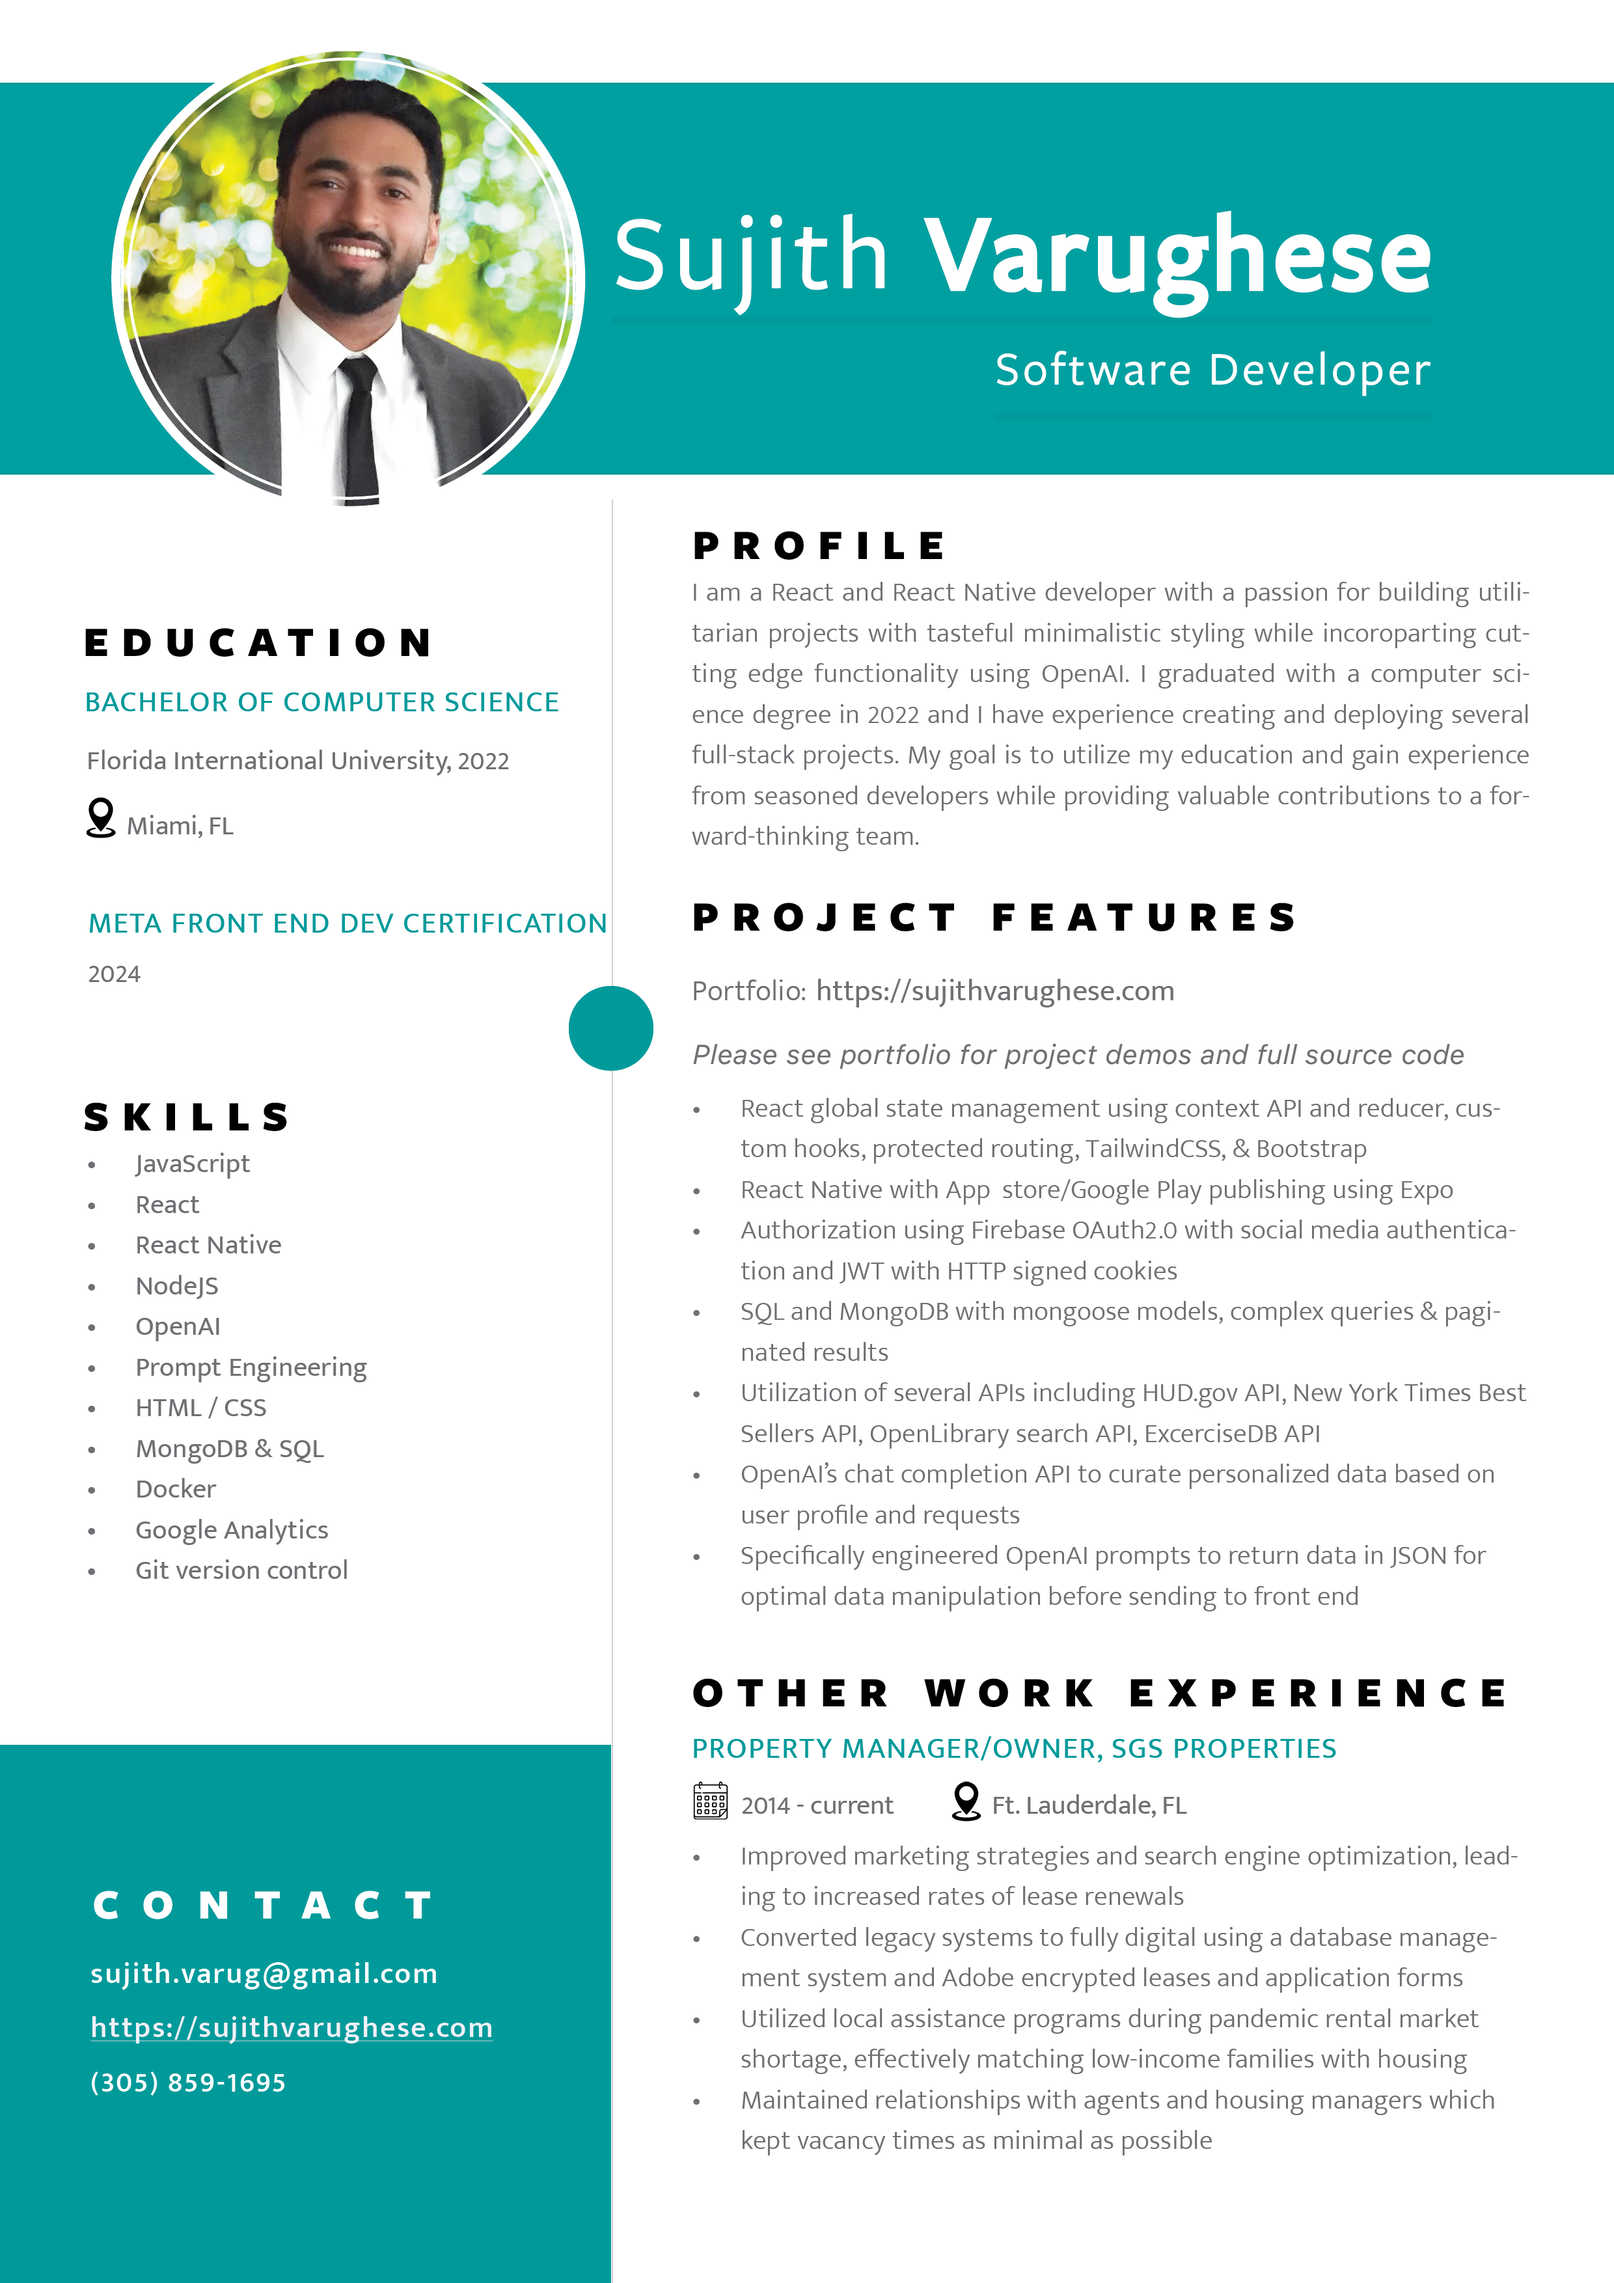
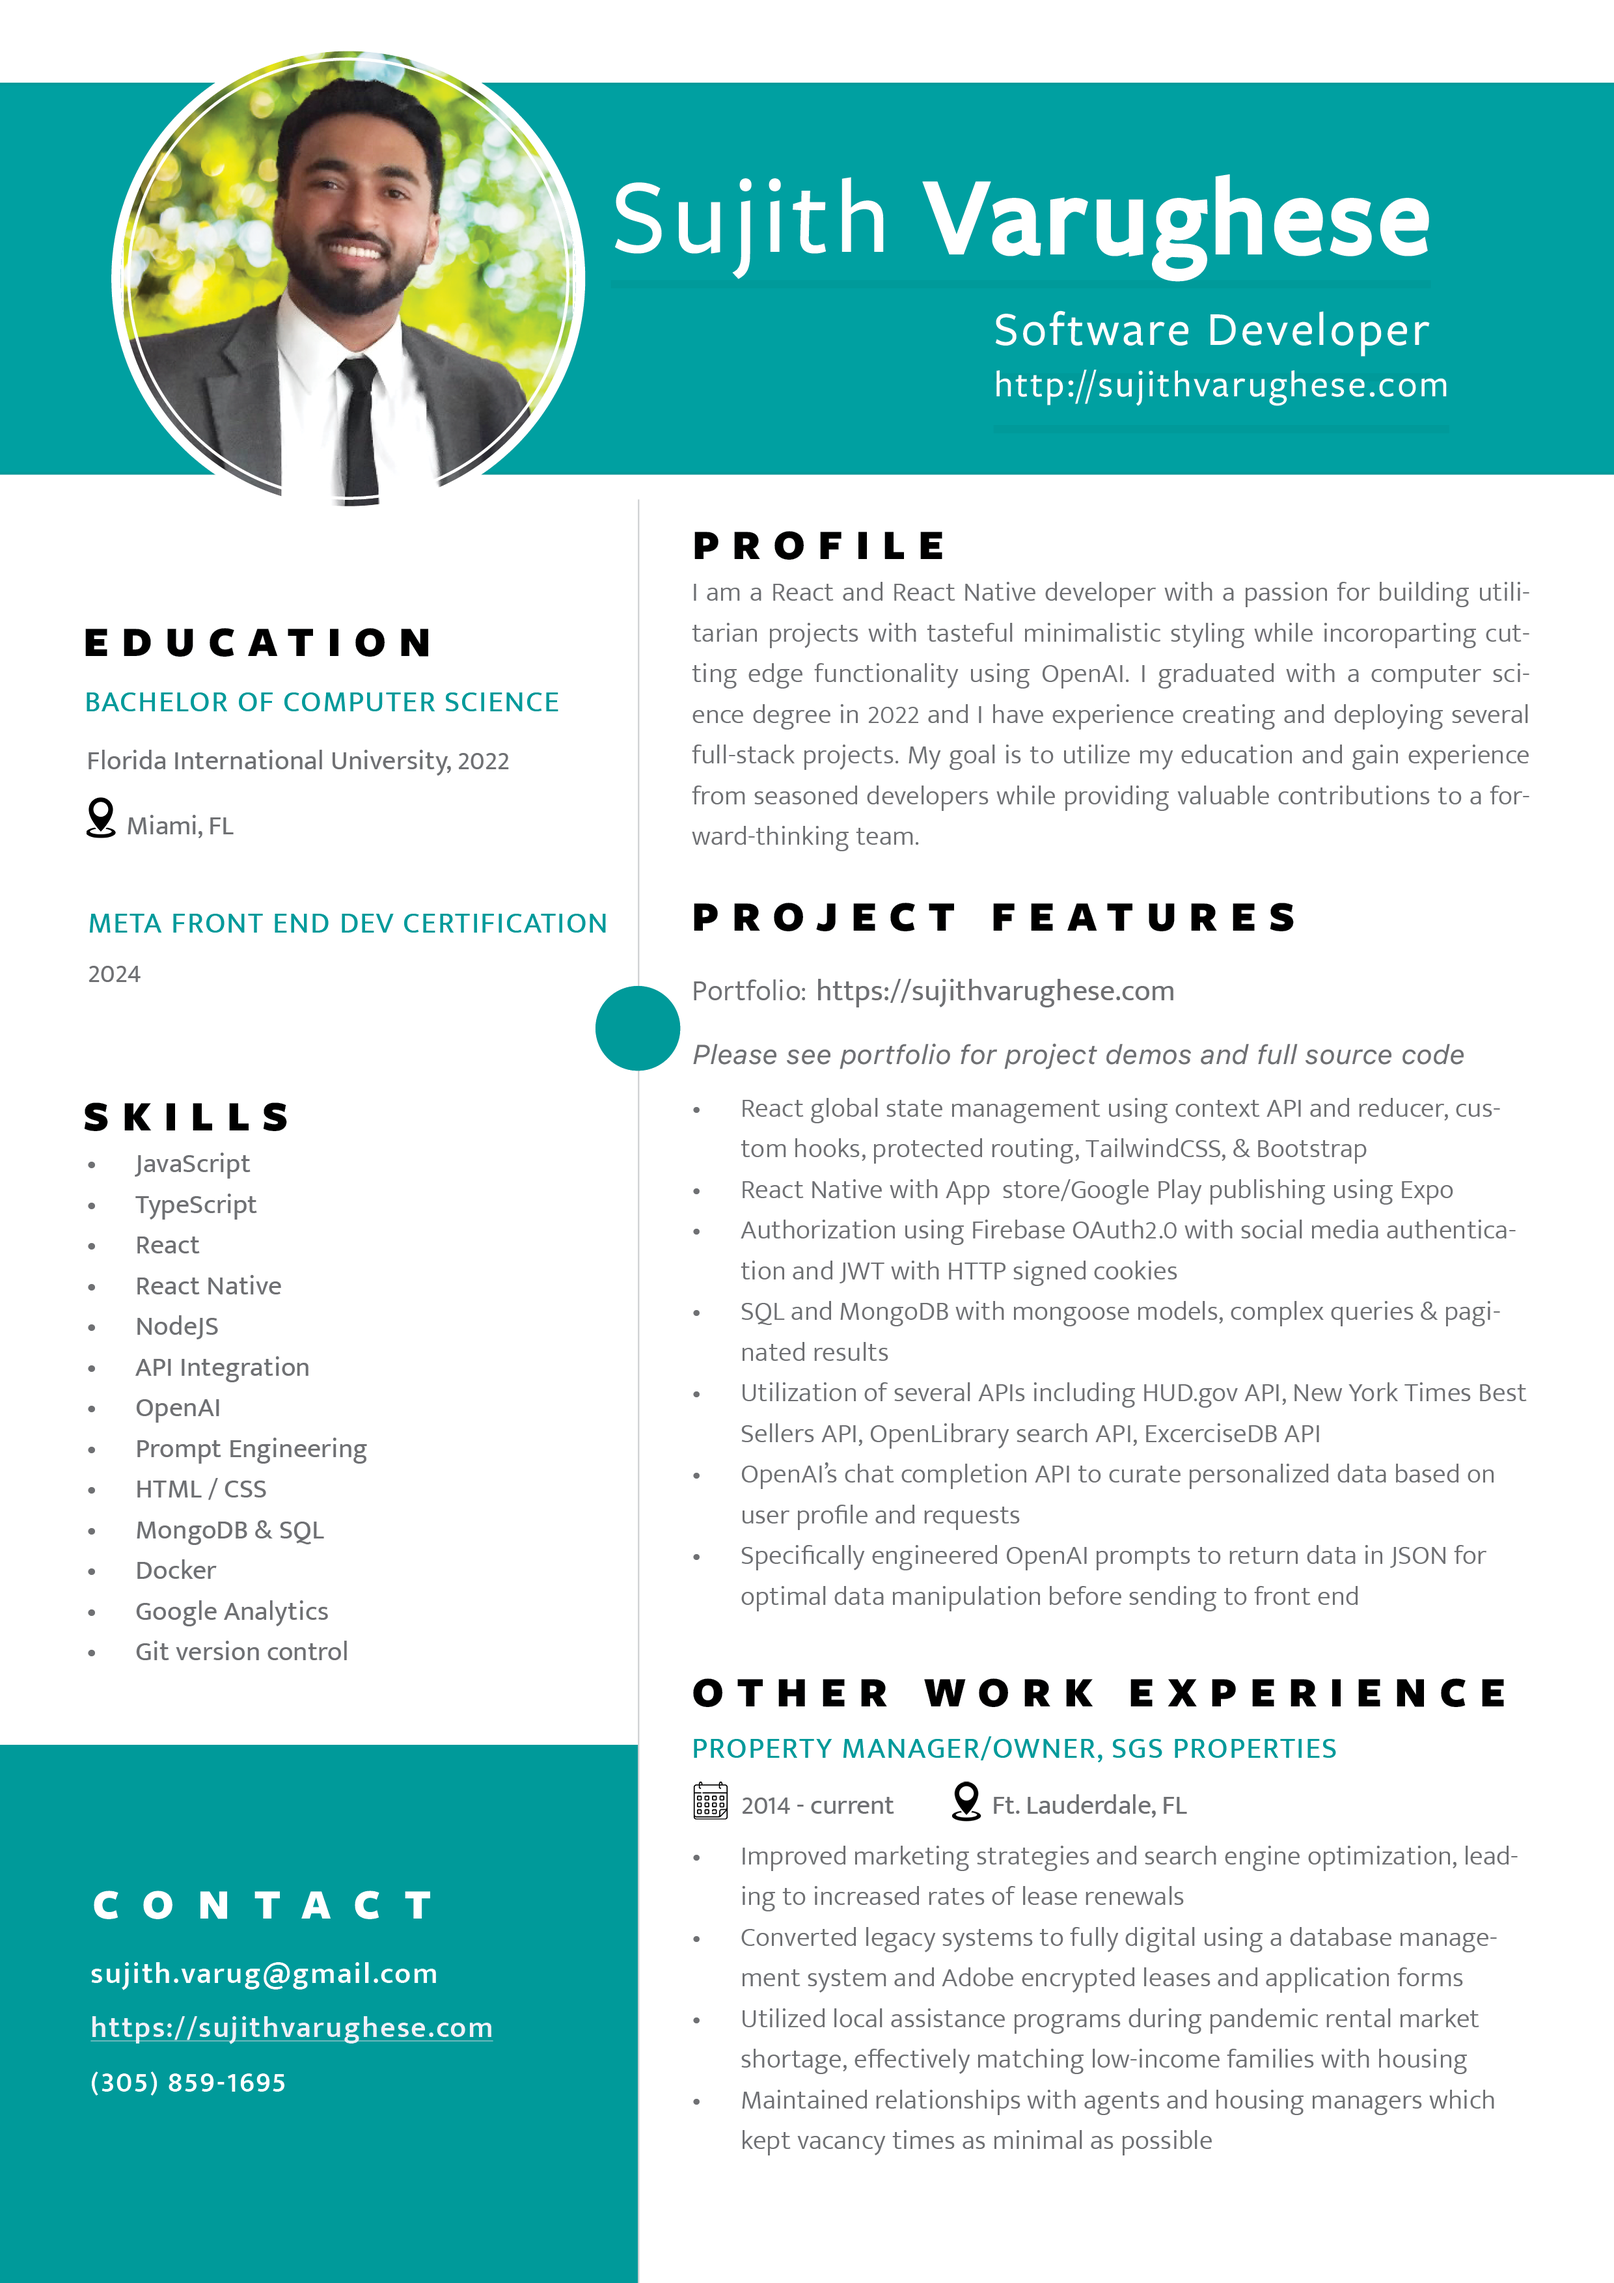
resume update

diff --git a/src/data/data.js b/src/data/data.js
@@ -11,7 +11,7 @@ export const aboutMeUpdated = "As a passionate software developer, I specialize 
 export const aboutMe3 = "Aside from programming, in my free time I enjoy working out, playing basketball, creating and editing videos, and hanging out with my 10 year old rottweiler, Hera!"
 export const skills = ['JavaScript', 'Python', 'Java', 'OpenAI', 'React', 'React Native', 'Expo', 'NodeJS','MongoDB', 'SQL', 'Firebase', 'AWS', 'Google Analytics', 'DNS & Networks', 'APIs', 'GraphQL', 'Data Structures', 'HTML', 'CSS', 'Material UI', 'ChakraUI', 'Styled Components', 'Bootstrap', 'Tailwind CSS', 'Git', 'Postman', "Scrum", 'Testing', 'Deployment']
 
-export const softwareSkills = "Experienced in both functional and object-oriented programming including JavaScript, Python, and Java."
+export const softwareSkills = "Experienced in both functional and object-oriented programming including JavaScript (including TypeScript), Python, and Java."
 
 export const fullStackSkills = "Over 2 years experience in React, React Native, NextJS, HTML, CSS, NodeJS, SQL, and MongoDB."
 
